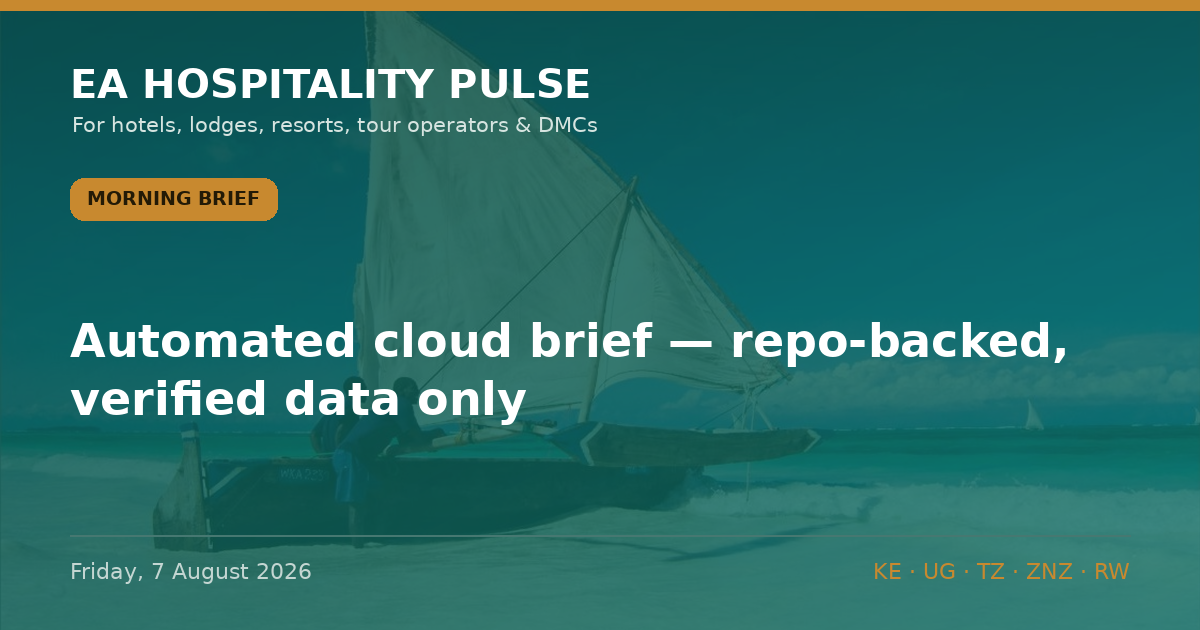
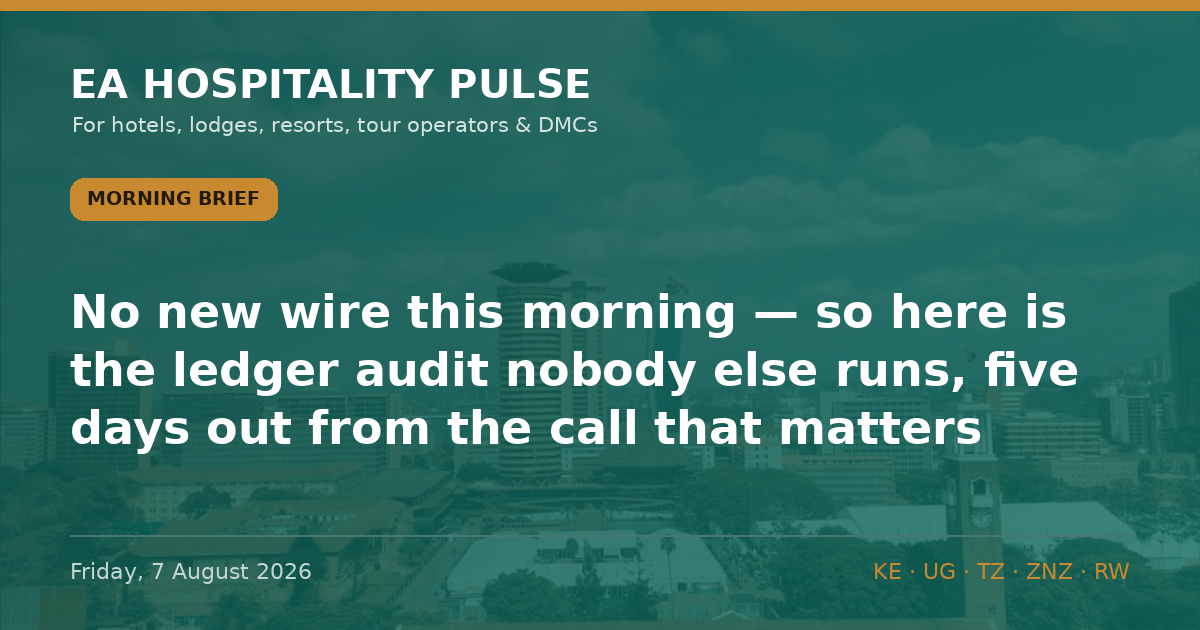
Publish edition: 2026-08-07 morning (Tier 2 standing brief)

diff --git a/editions/pulse-2026-08-07-morning.html b/editions/pulse-2026-08-07-morning.html
@@ -2,19 +2,19 @@
 <html lang="en"><head>
 <meta charset="UTF-8"><meta name="viewport" content="width=device-width,initial-scale=1">
 <title>Morning Brief — Friday, 7 August 2026 | EA Hospitality Pulse</title>
-<meta name="description" content="Automated cloud brief — repo-backed, verified data only. A fuller edited edition may follow.">
+<meta name="description" content="No new wire this morning — so here is the ledger audit nobody else runs, five days out from the call that matters.">
 <link rel="canonical" href="https://eahospitalitypulse.com/editions/pulse-2026-08-07-morning.html">
 <meta property="og:type" content="article"><meta property="og:site_name" content="EA Hospitality Pulse">
 <meta property="og:title" content="Morning Brief — Friday, 7 August 2026">
-<meta property="og:description" content="Automated cloud brief — repo-backed, verified data only. A fuller edited edition may follow."><meta property="og:url" content="https://eahospitalitypulse.com/editions/pulse-2026-08-07-morning.html">
+<meta property="og:description" content="No new wire this morning — so here is the ledger audit nobody else runs, five days out from the call that matters."><meta property="og:url" content="https://eahospitalitypulse.com/editions/pulse-2026-08-07-morning.html">
 <meta property="og:image" content="https://eahospitalitypulse.com/og/pulse-2026-08-07-morning.png"><meta property="og:image:width" content="1200"><meta property="og:image:height" content="630">
 <meta name="twitter:image" content="https://eahospitalitypulse.com/og/pulse-2026-08-07-morning.png">
 <link rel="icon" href="../favicon.png"><link rel="apple-touch-icon" href="../apple-touch-icon.png">
 <meta name="twitter:card" content="summary_large_image">
 <meta name="twitter:title" content="Morning Brief — Friday, 7 August 2026">
-<meta name="twitter:description" content="Automated cloud brief — repo-backed, verified data only. A fuller edited edition may follow.">
+<meta name="twitter:description" content="No new wire this morning — so here is the ledger audit nobody else runs, five days out from the call that matters.">
 <meta property="article:published_time" content="2026-08-07">
-<script type="application/ld+json">{"@context": "https://schema.org", "@type": "NewsArticle", "headline": "Automated cloud brief \u2014 repo-backed, verified data only. A fuller edited edition may follow.", "datePublished": "2026-08-07", "dateModified": "2026-08-07", "description": "Automated cloud brief \u2014 repo-backed, verified data only. A fuller edited edition may follow.", "url": "https://eahospitalitypulse.com/editions/pulse-2026-08-07-morning.html", "mainEntityOfPage": "https://eahospitalitypulse.com/editions/pulse-2026-08-07-morning.html", "articleSection": "Morning Brief", "author": {"@type": "Organization", "name": "EA Hospitality Pulse"}, "publisher": {"@type": "Organization", "name": "EA Hospitality Pulse"}, "about": ["Kenya", "Uganda", "Tanzania", "Zanzibar", "Rwanda", "hospitality", "tourism"]}</script>
+<script type="application/ld+json">{"@context": "https://schema.org", "@type": "NewsArticle", "headline": "No new wire this morning \u2014 so here is the ledger audit nobody else runs, five days out from the call that matt", "datePublished": "2026-08-07", "dateModified": "2026-08-07", "description": "No new wire this morning \u2014 so here is the ledger audit nobody else runs, five days out from the call that matters.", "url": "https://eahospitalitypulse.com/editions/pulse-2026-08-07-morning.html", "mainEntityOfPage": "https://eahospitalitypulse.com/editions/pulse-2026-08-07-morning.html", "articleSection": "Morning Brief", "author": {"@type": "Organization", "name": "EA Hospitality Pulse"}, "publisher": {"@type": "Organization", "name": "EA Hospitality Pulse"}, "about": ["Kenya", "Uganda", "Tanzania", "Zanzibar", "Rwanda", "hospitality", "tourism"]}</script>
 <style>
 :root{--sand:#f6f1e7;--ink:#1f2421;--muted:#6b6656;--gold:#c8892f;--gold-d:#a86f1f;--teal:#0f6d63;--teal-d:#0a4f48;--line:#e2d8c4;--sand-2:#efe7d6;--card:#fffdf9}
 *{box-sizing:border-box}body{margin:0;font-family:Georgia,Cambria,serif;color:var(--ink);background:var(--sand);line-height:1.6}
@@ -50,11 +50,13 @@ footer.s{text-align:center;color:var(--muted);font-family:Helvetica Neue,Arial,s
     <img class="hero" src="../og/pulse-2026-08-07-morning.png" alt="Morning Brief — Friday, 7 August 2026" loading="eager">
     <a class="nav" href="../index.html#archive">← All editions</a>
     <div><span class="badge">Morning Brief</span><time>Friday, 7 August 2026</time></div>
-    <h1>Automated cloud brief — repo-backed, verified data only.</h1>
+    <h1>No new wire this morning — so here is the ledger audit nobody else runs, five days out from the call that matters.</h1>
     <p><span class="meta-line">🏨 EA HOSPITALITY PULSE — Morning Brief</span><br><span class="meta-line">📅 Friday, 7 August 2026 | 🇰🇪🇹🇿🇺🇬🇷🇼</span></p>
-<p><em>Automated cloud brief — repo-backed, verified data only. A fuller edited edition may follow.</em><br>━━━━━━━━━<br><span class="item-head">1⃣ ADVISORY BOARD — STILL TRUE</span><br>US: Kenya L2, Tanzania L3, Zanzibar L3, Uganda L4, Rwanda L3.<br>UK: Kenya L2, Tanzania L1, Zanzibar L1, Uganda L3, Rwanda L2.<br><span class="sowhat">🎯 So what: no verified change to act on right now; a confirmed &#x27;no change&#x27; tells you not to discount on advisory grounds. (Board verified against travel.state.gov / gov.uk.)</span><br><span class="tagline">🏷 All | Regional | Confirmed</span></p>
-<p><span class="item-head">2⃣ FORECAST CHECK-IN — CALLS RESOLVING SOON</span><br>• 10 Aug — P030: No East African tourism body|airline|hotel group or national tourism authority from Kenya|<br>• 12 Aug — P034: Neither the US State Department nor the UK FCDO will lower its Uganda travel advisory leve<br>• 12 Aug — P036: The rendered US State Department Kenya advisory page will be revised to show the Nairobi n<br><span class="sowhat">🎯 So what: these are our falsifiable calls coming due — we grade ourselves in public.</span><br><span class="tagline">🏷 All | Regional | Reported</span></p>
-<p><span class="meta-line">📡 RADAR FLAGGED (unread upstream — open before relying)</span><br>• [page changed] Airlink news — Airlink news, first seen 2026-08-06 [OPEN THIS]<br>https://www.flyairlink.com/<br>• [page changed] Jambojet media — Jambojet media, first seen 2026-08-06 [OPEN THIS]<br>https://www.jambojet.com/en/press-release<br>━━━━━━━━━<br>🔗 This edition on the web: https://eahospitalitypulse.com/editions/pulse-2026-08-07-morning.html<br>— EA Hospitality Pulse | Automated cloud brief</p>
+<p>No new wire this morning — so here is the ledger audit nobody else runs, five days out from the call that matters.<br>━━━━━━━━━<br><span class="item-head">1⃣ FORECAST CHECK-IN — FIVE DAYS TO 12 AUGUST, AND NO EARLY MOVE</span><br>The US CDC&#x27;s §362 Ebola entry suspension (DRC, Uganda, South Sudan) still expires 12 August. We checked the CDC port-health order page this morning: it still shows only the 13 July order — no early renewal, no early lapse. The epidemiology behind it has hardened, not eased: DRC now at 3,874 confirmed cases and 1,751 deaths to 3 August (WHO/ECDC weekly, 4 Aug), up from 3,605 a week earlier. Our open calls sit exactly where we left them — renewal with DRC still listed (P044/P047), Uganda held at US Level 4 (P056), Uganda not decoupled (P031). One resolved correct this week: P053 (DRC would breach 3,605 — it did).<br><span class="sowhat">🎯 So what: keep the ban in your base case past 12 Aug. Do not price a September US-source recovery into Uganda or regional forecasts yet.</span><br><span class="tagline">🏷 All | Regional | Reported</span></p>
+<p><span class="item-head">2⃣ STILL TRUE — THE ADVISORY BOARD HASN&#x27;T MOVED</span><br>US: Kenya L2, Tanzania L3, Zanzibar L3, Uganda L4, Rwanda L3. UK: Kenya L2, Tanzania/Zanzibar L1, Uganda L3, Rwanda L2. Uganda&#x27;s US Level 4 re-confirmed on travel.state.gov this morning — the 5 Aug US commendation of Uganda&#x27;s own response is goodwill, not a downgrade. No government moved a level overnight.<br><span class="sowhat">🎯 So what: a confirmed &quot;no change&quot; tells you not to discount on advisory grounds. Hold rate and hold your security messaging.</span><br><span class="tagline">🏷 All | Regional | Confirmed</span></p>
+<p><span class="item-head">3⃣ COST PULSE — THE PUMP-PRICE WINDOW CLOSES IN A WEEK</span><br>Kenya diesel is held at KSh 222.86/L and super at KSh 214.03/L only through 14 August (EPRA July review) — propped by a KSh 945m levy draw and the 8% petroleum VAT rate extended to 14 Oct. KES steady at 129.30/USD; reserves 6.0 months&#x27; cover. The quiet killer stands: electricity pass-through charges now top KSh 5/kWh.<br><span class="sowhat">🎯 So what: lock safari-transfer and generator-fuel contracts this week, before the ~15 Aug review reprices the cycle. Read the pass-through line on the power bill, not the tariff band.</span><br><span class="tagline">🏷 Bush | Kenya | Confirmed</span><br>━━━━━━━━━<br><span class="meta-line">📡 WEEK AHEAD</span><br>• Fri 8 Aug — CBK weekly bulletin (FX, reserves)<br>• Tue 12 Aug — US CDC §362 entry order expires; watch renewal + Uganda listing (P044/P047 resolve)<br>• Fri 15 Aug — EPRA fuel review (P025/P028 resolve)<br>• Mon 18 Aug — WHO IHR Emergency Committee on Bundibugyo — could adjust the PHEIC (P052)<br>• 19–21 Aug — Hotel Expo Kenya, KICC Nairobi — a city-hotel midweek compression window</p>
+<p><span class="meta-line">📡 RADAR: 336 in-window observations since 6 Aug 18:00 EAT. Top signal was a Federal Register CDC page-change (first seen 07:35 EAT) — opened and cleared: no new Ebola order behind it. The rest was gazette cause-lists and global hotel-brand PR — noise for our market.</span></p>
+<p>🔗 This edition on the web: https://eahospitalitypulse.com/editions/pulse-2026-08-07-morning.html<br>— EA Hospitality Pulse | Daily intelligence for city, bush &amp; beach properties</p>
     
     <div class="sub">
       <b>Follow the Pulse</b> — three briefs a day across Kenya, Uganda, Tanzania, Zanzibar &amp; Rwanda.<br>

diff --git a/data.js b/data.js
@@ -5,8 +5,8 @@ window.EDITIONS = [
   "dateDisplay": "Friday, 7 August 2026",
   "edition": "Morning Brief",
   "editionKey": "morning",
-  "summary": "Automated cloud brief — repo-backed, verified data only. A fuller edited edition may follow.",
-  "bodyHtml": "<p><span class=\"meta-line\">🏨 EA HOSPITALITY PULSE — Morning Brief</span><br><span class=\"meta-line\">📅 Friday, 7 August 2026 | 🇰🇪🇹🇿🇺🇬🇷🇼</span></p>\n<p><em>Automated cloud brief — repo-backed, verified data only. A fuller edited edition may follow.</em><br>━━━━━━━━━<br><span class=\"item-head\">1⃣ ADVISORY BOARD — STILL TRUE</span><br>US: Kenya L2, Tanzania L3, Zanzibar L3, Uganda L4, Rwanda L3.<br>UK: Kenya L2, Tanzania L1, Zanzibar L1, Uganda L3, Rwanda L2.<br><span class=\"sowhat\">🎯 So what: no verified change to act on right now; a confirmed &#x27;no change&#x27; tells you not to discount on advisory grounds. (Board verified against travel.state.gov / gov.uk.)</span><br><span class=\"tagline\">🏷 All | Regional | Confirmed</span></p>\n<p><span class=\"item-head\">2⃣ FORECAST CHECK-IN — CALLS RESOLVING SOON</span><br>• 10 Aug — P030: No East African tourism body|airline|hotel group or national tourism authority from Kenya|<br>• 12 Aug — P034: Neither the US State Department nor the UK FCDO will lower its Uganda travel advisory leve<br>• 12 Aug — P036: The rendered US State Department Kenya advisory page will be revised to show the Nairobi n<br><span class=\"sowhat\">🎯 So what: these are our falsifiable calls coming due — we grade ourselves in public.</span><br><span class=\"tagline\">🏷 All | Regional | Reported</span></p>\n<p><span class=\"meta-line\">📡 RADAR FLAGGED (unread upstream — open before relying)</span><br>• [page changed] Airlink news — Airlink news, first seen 2026-08-06 [OPEN THIS]<br>https://www.flyairlink.com/<br>• [page changed] Jambojet media — Jambojet media, first seen 2026-08-06 [OPEN THIS]<br>https://www.jambojet.com/en/press-release<br>━━━━━━━━━<br>🔗 This edition on the web: https://eahospitalitypulse.com/editions/pulse-2026-08-07-morning.html<br>— EA Hospitality Pulse | Automated cloud brief</p>"
+  "summary": "No new wire this morning — so here is the ledger audit nobody else runs, five days out from the call that matters.",
+  "bodyHtml": "<p><span class=\"meta-line\">🏨 EA HOSPITALITY PULSE — Morning Brief</span><br><span class=\"meta-line\">📅 Friday, 7 August 2026 | 🇰🇪🇹🇿🇺🇬🇷🇼</span></p>\n<p>No new wire this morning — so here is the ledger audit nobody else runs, five days out from the call that matters.<br>━━━━━━━━━<br><span class=\"item-head\">1⃣ FORECAST CHECK-IN — FIVE DAYS TO 12 AUGUST, AND NO EARLY MOVE</span><br>The US CDC&#x27;s §362 Ebola entry suspension (DRC, Uganda, South Sudan) still expires 12 August. We checked the CDC port-health order page this morning: it still shows only the 13 July order — no early renewal, no early lapse. The epidemiology behind it has hardened, not eased: DRC now at 3,874 confirmed cases and 1,751 deaths to 3 August (WHO/ECDC weekly, 4 Aug), up from 3,605 a week earlier. Our open calls sit exactly where we left them — renewal with DRC still listed (P044/P047), Uganda held at US Level 4 (P056), Uganda not decoupled (P031). One resolved correct this week: P053 (DRC would breach 3,605 — it did).<br><span class=\"sowhat\">🎯 So what: keep the ban in your base case past 12 Aug. Do not price a September US-source recovery into Uganda or regional forecasts yet.</span><br><span class=\"tagline\">🏷 All | Regional | Reported</span></p>\n<p><span class=\"item-head\">2⃣ STILL TRUE — THE ADVISORY BOARD HASN&#x27;T MOVED</span><br>US: Kenya L2, Tanzania L3, Zanzibar L3, Uganda L4, Rwanda L3. UK: Kenya L2, Tanzania/Zanzibar L1, Uganda L3, Rwanda L2. Uganda&#x27;s US Level 4 re-confirmed on travel.state.gov this morning — the 5 Aug US commendation of Uganda&#x27;s own response is goodwill, not a downgrade. No government moved a level overnight.<br><span class=\"sowhat\">🎯 So what: a confirmed &quot;no change&quot; tells you not to discount on advisory grounds. Hold rate and hold your security messaging.</span><br><span class=\"tagline\">🏷 All | Regional | Confirmed</span></p>\n<p><span class=\"item-head\">3⃣ COST PULSE — THE PUMP-PRICE WINDOW CLOSES IN A WEEK</span><br>Kenya diesel is held at KSh 222.86/L and super at KSh 214.03/L only through 14 August (EPRA July review) — propped by a KSh 945m levy draw and the 8% petroleum VAT rate extended to 14 Oct. KES steady at 129.30/USD; reserves 6.0 months&#x27; cover. The quiet killer stands: electricity pass-through charges now top KSh 5/kWh.<br><span class=\"sowhat\">🎯 So what: lock safari-transfer and generator-fuel contracts this week, before the ~15 Aug review reprices the cycle. Read the pass-through line on the power bill, not the tariff band.</span><br><span class=\"tagline\">🏷 Bush | Kenya | Confirmed</span><br>━━━━━━━━━<br><span class=\"meta-line\">📡 WEEK AHEAD</span><br>• Fri 8 Aug — CBK weekly bulletin (FX, reserves)<br>• Tue 12 Aug — US CDC §362 entry order expires; watch renewal + Uganda listing (P044/P047 resolve)<br>• Fri 15 Aug — EPRA fuel review (P025/P028 resolve)<br>• Mon 18 Aug — WHO IHR Emergency Committee on Bundibugyo — could adjust the PHEIC (P052)<br>• 19–21 Aug — Hotel Expo Kenya, KICC Nairobi — a city-hotel midweek compression window</p>\n<p><span class=\"meta-line\">📡 RADAR: 336 in-window observations since 6 Aug 18:00 EAT. Top signal was a Federal Register CDC page-change (first seen 07:35 EAT) — opened and cleared: no new Ebola order behind it. The rest was gazette cause-lists and global hotel-brand PR — noise for our market.</span></p>\n<p>🔗 This edition on the web: https://eahospitalitypulse.com/editions/pulse-2026-08-07-morning.html<br>— EA Hospitality Pulse | Daily intelligence for city, bush &amp; beach properties</p>"
  },
  {
   "id": "pulse-2026-08-06-evening",
@@ -343,6 +343,21 @@ window.EDITIONS = [
  }
 ];
 window.INSIGHTS = [
+ {
+  "headline": "COST PULSE — THE PUMP-PRICE WINDOW CLOSES IN A WEEK",
+  "body": "Kenya diesel is held at KSh 222.86/L and super at KSh 214.03/L only through 14 August (EPRA July review) — propped by a KSh 945m levy draw and the 8% petroleum VAT rate extended to 14 Oct. KES steady at 129.30/USD; reserves 6.0 months' cover. The quiet killer stands: electricity pass-through charges now top KSh 5/kWh.",
+  "sowhat": "🎯 So what: lock safari-transfer and generator-fuel contracts this week, before the ~15 Aug review reprices the cycle. Read the pass-through line on the power bill, not the tariff band.",
+  "segments": [
+   "bush"
+  ],
+  "countries": "Kenya",
+  "confidence": "Confirmed",
+  "source": "pulse-2026-08-07-morning",
+  "date": "2026-08-07",
+  "dateDisplay": "Friday, 7 August 2026",
+  "edition": "Morning Brief",
+  "editionKey": "morning"
+ },
  {
   "headline": "COST PULSE: THE PLANNING WINDOW IS STILL OPEN",
   "body": "EPRA holds Nairobi super at KSh 214.03/L and diesel at KSh 222.86/L to 14 Aug. Murban crude, the leading indicator for the next review, sits at USD 67.99/bbl — the 15 Aug cycle is more likely to hold or fall than rise. KES steady at 129.30/USD; reserves at 6.0 months' cover. The quiet killer: Kenya electricity pass-through charges now top KSh 5/kWh and rose again in July.",
@@ -1678,4 +1693,4 @@ window.INSIGHTS = [
   "editionKey": "evening"
  }
 ];
-window.BUILT_AT = "2026-08-07 01:45";
+window.BUILT_AT = "2026-08-07 08:26";

diff --git a/ledger.js b/ledger.js
@@ -1,8 +1,8 @@
 window.LEDGER = {
- "updated": "2026-08-07 01:45",
+ "updated": "2026-08-07 08:26",
  "stats": {
-  "total": 57,
-  "open": 51,
+  "total": 58,
+  "open": 52,
   "resolved": 6,
   "correct": 3,
   "partial": 1,
@@ -24,6 +24,22 @@ window.LEDGER = {
    "resolved_date": "",
    "evidence": "",
    "source_url": "https://www.govinfo.gov/content/pkg/FR-2026-07-16/html/2026-14365.htm",
+   "overdue": false
+  },
+  {
+   "id": "P057",
+   "made_date": "2026-08-07",
+   "edition": "Morning Brief",
+   "claim": "The US CDC will not post a new or renewed Section 362 Ebola entry order on its port-health page before 11 August 2026 — any renewal lands at the 12 August expiry, not early",
+   "resolution_criteria": "CDC port-health evdorder page (cdc.gov/port-health/legal-authorities/evdorder.html) checked on 11 Aug 2026 still shows the 13 July 2026 order as latest with no order dated 7-10 Aug 2026. If a new order dated on/before 10 Aug appears the call is incorrect",
+   "resolve_by": "2026-08-11",
+   "market": "Regional",
+   "segment": "Bush/City",
+   "confidence": "Early signal",
+   "status": "open",
+   "resolved_date": "",
+   "evidence": "",
+   "source_url": "https://www.cdc.gov/port-health/legal-authorities/evdorder.html",
    "overdue": false
   },
   {

diff --git a/index.html b/index.html
@@ -350,7 +350,7 @@
   .pl-brand{font-family:'Helvetica Neue',Arial,sans-serif;font-size:12px;font-weight:600;color:var(--muted);background:var(--sand-2);padding:2px 8px;border-radius:20px;margin-left:4px;white-space:nowrap}
   .pl-detail{font-size:14px;color:var(--muted);margin:6px 0 8px;line-height:1.55}
 </style>
-<!--BUILD_STAMP:20260807-0145--></head>
+<!--BUILD_STAMP:20260807-0826--></head>
 <body>
 <header class="site">
   <div class="wrap topbar">

diff --git a/editions-src/pulse-2026-08-07-morning.md b/editions-src/pulse-2026-08-07-morning.md
@@ -1,51 +1,78 @@
 # EA Hospitality Pulse — Morning Brief — Friday, 7 August 2026
 
-_Tier 2 Standing Brief · auto-generated in the cloud from verified repo data (advisory board, forecast ledger, radar feed). No web-searched analysis — a fuller edited edition may supersede this._
+_Tier 2 Standing Brief. No new development clears the recency gate this morning — the general sweep returned only evergreen SEO aggregators and the already-covered (5 Aug) Uganda Airlines Accra/Kigali routes. This edition supersedes the automated cloud placeholder and leads with a forecast-ledger audit: the moat item, re-verified against primary sources this morning. Radar: 336 in-window observations since 6 Aug 18:00 EAT; its top signal (Federal Register CDC page-change, first seen 07:35 EAT) resolved to a trap — the CDC port-health order page still shows only the 13 July order, i.e. no early renewal._
 
 ## TELEGRAM
 
 🏨 EA HOSPITALITY PULSE — Morning Brief
 📅 Friday, 7 August 2026 | 🇰🇪🇹🇿🇺🇬🇷🇼
 
-_Automated cloud brief — repo-backed, verified data only. A fuller edited edition may follow._
+No new wire this morning — so here is the ledger audit nobody else runs, five days out from the call that matters.
 ━━━━━━━━━
-1⃣ ADVISORY BOARD — STILL TRUE
-US: Kenya L2, Tanzania L3, Zanzibar L3, Uganda L4, Rwanda L3.
-UK: Kenya L2, Tanzania L1, Zanzibar L1, Uganda L3, Rwanda L2.
-🎯 So what: no verified change to act on right now; a confirmed 'no change' tells you not to discount on advisory grounds. (Board verified against travel.state.gov / gov.uk.)
-🏷 All | Regional | Confirmed
-
-2⃣ FORECAST CHECK-IN — CALLS RESOLVING SOON
-• 10 Aug — P030: No East African tourism body|airline|hotel group or national tourism authority from Kenya|
-• 12 Aug — P034: Neither the US State Department nor the UK FCDO will lower its Uganda travel advisory leve
-• 12 Aug — P036: The rendered US State Department Kenya advisory page will be revised to show the Nairobi n
-🎯 So what: these are our falsifiable calls coming due — we grade ourselves in public.
+1⃣ FORECAST CHECK-IN — FIVE DAYS TO 12 AUGUST, AND NO EARLY MOVE
+The US CDC's §362 Ebola entry suspension (DRC, Uganda, South Sudan) still expires 12 August. We checked the CDC port-health order page this morning: it still shows only the 13 July order — no early renewal, no early lapse. The epidemiology behind it has hardened, not eased: DRC now at 3,874 confirmed cases and 1,751 deaths to 3 August (WHO/ECDC weekly, 4 Aug), up from 3,605 a week earlier. Our open calls sit exactly where we left them — renewal with DRC still listed (P044/P047), Uganda held at US Level 4 (P056), Uganda not decoupled (P031). One resolved correct this week: P053 (DRC would breach 3,605 — it did).
+🎯 So what: keep the ban in your base case past 12 Aug. Do not price a September US-source recovery into Uganda or regional forecasts yet.
 🏷 All | Regional | Reported
 
-📡 RADAR FLAGGED (unread upstream — open before relying)
-• [page changed] Airlink news — Airlink news, first seen 2026-08-06 [OPEN THIS]
-  https://www.flyairlink.com/
-• [page changed] Jambojet media — Jambojet media, first seen 2026-08-06 [OPEN THIS]
-  https://www.jambojet.com/en/press-release
+2⃣ STILL TRUE — THE ADVISORY BOARD HASN'T MOVED
+US: Kenya L2, Tanzania L3, Zanzibar L3, Uganda L4, Rwanda L3. UK: Kenya L2, Tanzania/Zanzibar L1, Uganda L3, Rwanda L2. Uganda's US Level 4 re-confirmed on travel.state.gov this morning — the 5 Aug US commendation of Uganda's own response is goodwill, not a downgrade. No government moved a level overnight.
+🎯 So what: a confirmed "no change" tells you not to discount on advisory grounds. Hold rate and hold your security messaging.
+🏷 All | Regional | Confirmed
+
+3⃣ COST PULSE — THE PUMP-PRICE WINDOW CLOSES IN A WEEK
+Kenya diesel is held at KSh 222.86/L and super at KSh 214.03/L only through 14 August (EPRA July review) — propped by a KSh 945m levy draw and the 8% petroleum VAT rate extended to 14 Oct. KES steady at 129.30/USD; reserves 6.0 months' cover. The quiet killer stands: electricity pass-through charges now top KSh 5/kWh.
+🎯 So what: lock safari-transfer and generator-fuel contracts this week, before the ~15 Aug review reprices the cycle. Read the pass-through line on the power bill, not the tariff band.
+🏷 Bush | Kenya | Confirmed
 ━━━━━━━━━
+📡 WEEK AHEAD
+• Fri 8 Aug — CBK weekly bulletin (FX, reserves)
+• Tue 12 Aug — US CDC §362 entry order expires; watch renewal + Uganda listing (P044/P047 resolve)
+• Fri 15 Aug — EPRA fuel review (P025/P028 resolve)
+• Mon 18 Aug — WHO IHR Emergency Committee on Bundibugyo — could adjust the PHEIC (P052)
+• 19–21 Aug — Hotel Expo Kenya, KICC Nairobi — a city-hotel midweek compression window
+
+📡 RADAR: 336 in-window observations since 6 Aug 18:00 EAT. Top signal was a Federal Register CDC page-change (first seen 07:35 EAT) — opened and cleared: no new Ebola order behind it. The rest was gazette cause-lists and global hotel-brand PR — noise for our market.
+
 🔗 This edition on the web: https://eahospitalitypulse.com/editions/pulse-2026-08-07-morning.html
-— EA Hospitality Pulse | Automated cloud brief
+— EA Hospitality Pulse | Daily intelligence for city, bush & beach properties
 
 ## WHATSAPP
 
-🏨 *EA HOSPITALITY PULSE*
-_Morning Brief · Fri 7 Aug_
+📌 *EA HOSPITALITY PULSE*
+_Morning · Fri 7 Aug_
 
-📌 *Advisory board — no verified change*
-US: Kenya L2, Tanzania L3, Zanzibar L3, Uganda L4, Rwanda L3.
-→ *Do this:* hold rate; no advisory basis to discount today. Board verified vs official sources.
+📌 *No new wire — but you're 5 days from the 12 August call*
+The US CDC Ebola entry ban on Uganda, DRC & South Sudan still expires 12 Aug, and this morning the CDC order page shows no early move. DRC's outbreak keeps climbing (3,874 confirmed, WHO). Our read holds: renewed, Uganda stays US Level 4.
+→ *Do this:* hold rate on advisory grounds — nothing changed — and lock fuel/transfer contracts before Kenya's ~15 Aug EPRA review reprices diesel (KSh 222.86/L through 14 Aug only).
 
-📌 *ALSO*
-📊 9 forecast call(s) resolve within two weeks — we grade them in public
-📡 Radar flagged 2 tier-1 upstream item(s) to read — see the web edition
+📌 *ALSO TODAY*
+🇺🇬 Uganda US Level 4 re-confirmed — 5 Aug commendation ≠ downgrade
+🇰🇪 CBK weekly bulletin out today
 
-📊 *NUMBER OF THE DAY*
-*3 days* — until our next forecast call (P030) resolves on 10 Aug
+📊 *NUMBER OF THE DAY:* 3,874 — DRC confirmed Ebola cases (WHO, to 3 Aug), up from 3,605 a week earlier — the epidemiology keeping Uganda at Level 4.
 
-🔗 Full brief → https://t.me/eahospitalitypulse
 📖 Read on the web → https://eahospitalitypulse.com/editions/pulse-2026-08-07-morning.html
+🔗 Telegram → https://t.me/eahospitalitypulse
+
+## LINKEDIN
+
+The most useful thing a market-intelligence brief can do on a quiet news day is audit its own forecasts in public.
+
+Five days out from the 12 August US CDC decision on the Ebola entry suspension covering Uganda, the DR Congo and South Sudan, here is where our published calls stand — and why we are not moving them.
+
+We checked the CDC's port-health order page this morning: it still shows only the 13 July order. No early renewal, no early lapse. The outbreak behind the order has not plateaued — the DRC is now at 3,874 confirmed cases and 1,751 deaths to 3 August, per WHO, up from 3,605 a week earlier. On that evidence our base case is unchanged: the suspension is renewed with the DRC still listed, and Uganda holds at US Level 4. The 5 August US commendation of Uganda's own response is goodwill, not a downgrade signal.
+
+For operators the read is dull but valuable: do not price a September US-source recovery into your forecasts yet, and hold rate rather than discounting on advisory grounds — because on the board, nothing has actually changed.
+
+A confirmed "no change" is still intelligence.
+
+We track this daily at EA Hospitality Pulse.
+
+#Hospitality #TravelAdvisory #EastAfrica #Uganda #RiskManagement
+
+### FIRST COMMENT
+
+Full edition: https://eahospitalitypulse.com/editions/pulse-2026-08-07-morning.html
+Telegram: https://t.me/eahospitalitypulse
+WhatsApp: https://whatsapp.com/channel/0029VbCjul2KmCPTv8Qrh73b
+Archive: https://eahospitalitypulse.com/
